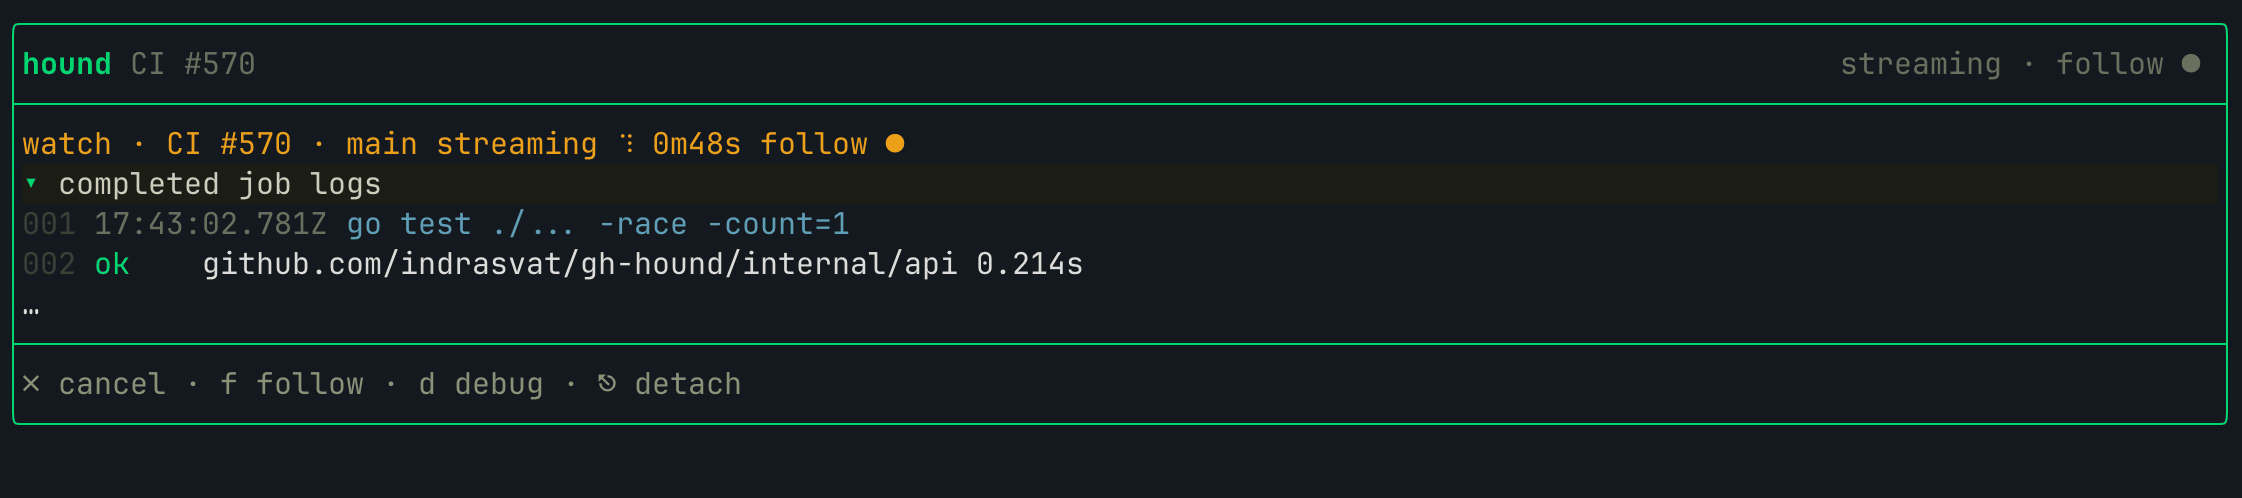
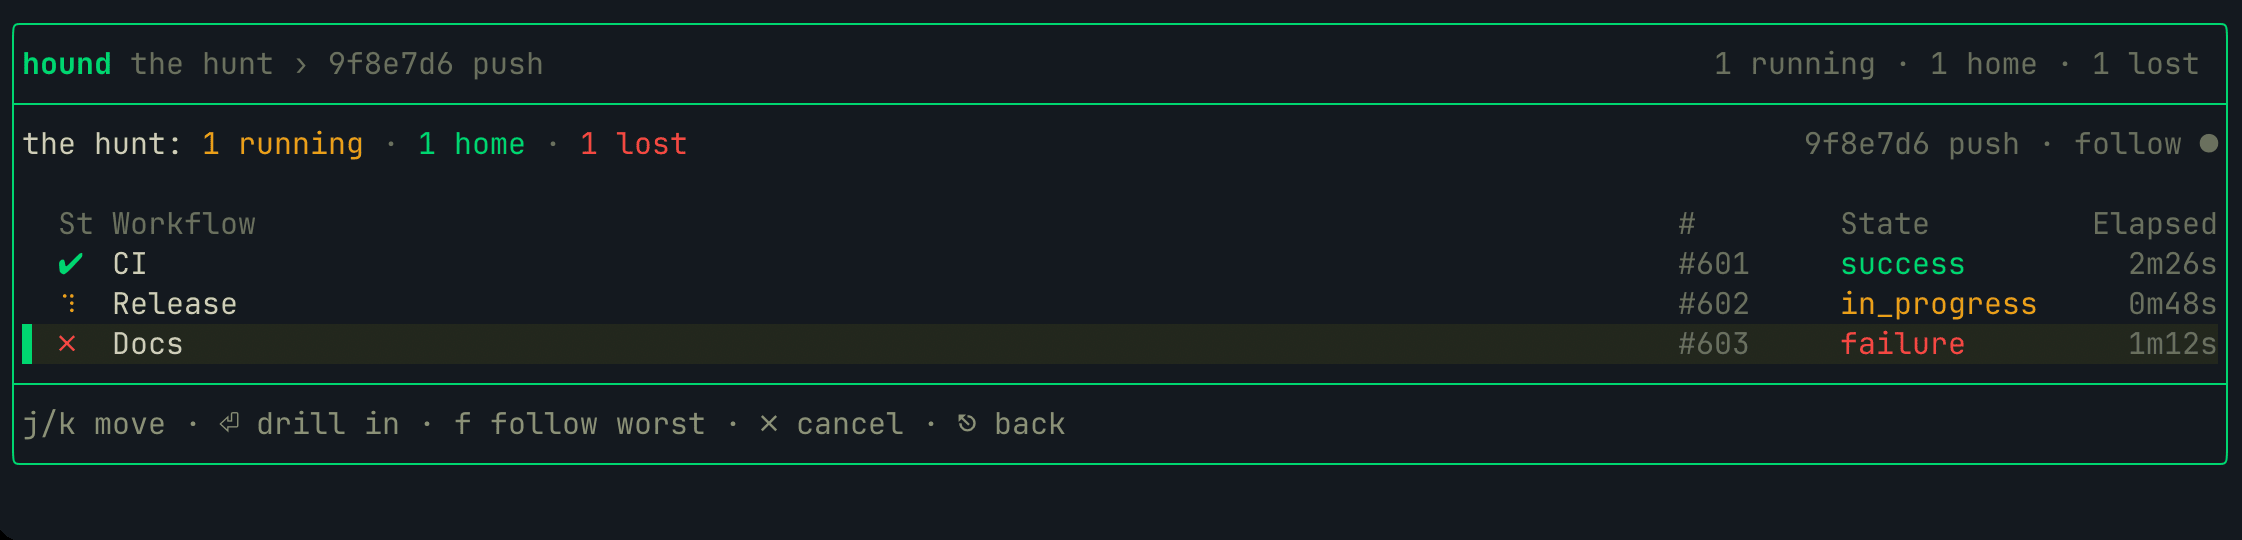
feat(270): landing — the watch tab shows the hunt board

diff --git a/pages/index.html b/pages/index.html
@@ -167,8 +167,8 @@
         <figcaption class="shot-caption">t opens time travel · step picker, slowest-gap detection, jump or range-filter</figcaption>
       </figure>
       <figure class="shot" id="shot-watch" role="tabpanel" hidden>
-        <div class="term"><img src="/assets/shots/watch.png" alt="Watch screen streaming a running job's log with follow mode" loading="lazy" width="2242" height="498"></div>
-        <figcaption class="shot-caption">watch mode · streams the active run, f follows</figcaption>
+        <div class="term"><img src="/assets/shots/watch.png" alt="The hunt board: one row per run in the event group with live states, aggregate counts, and follow-worst mode" loading="lazy" width="2242" height="540"></div>
+        <figcaption class="shot-caption">the hunt · w watches the whole event group, f follows the worst</figcaption>
       </figure>
       <figure class="shot" id="shot-palette" role="tabpanel" hidden>
         <div class="term"><img src="/assets/shots/palette.png" alt="Command palette overlay listing jump targets like runs, failures, artifacts and dispatch" loading="lazy" width="2242" height="780"></div>